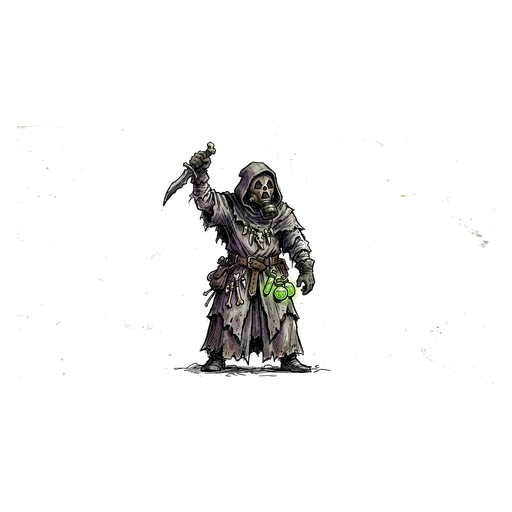
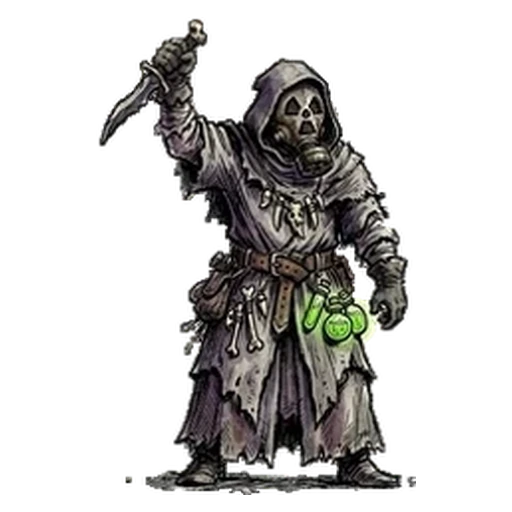
Враги: медведь, стиль карточек как у оружия, чёрная модалка, центрирование заголовков
1) Дорисован мутировавший медведь — все 20 врагов с иллюстрациями.

2) Фон панели арта врага — как у карточек оружия: оливковый градиент
   с внутренней тенью и окантовкой, но без радиальных кругов.

3) Модалка врага показывает настоящую иллюстрацию на чистом чёрном фоне
   (раньше был эмодзи). У оружия модалка не изменилась.

4) Заголовки всех разделов выровнены по центру; в «Арсенале» тумблер
   стиля вынесен в absolute справа, чтобы не сдвигать заголовок.

5) Карточка врага = карточка оружия по размеру: сетка 320px, рамка и
   тени как у weapon-card, текст в .ec-body.

Попутно: чистка альфы иллюстраций — на чёрном фоне были видны крошки
бумаги и обрывки контуров; у скорпиона, снайпера и дрона сохранена
бумажная подложка страницы.

Changed region(s): [[0.1875, 0.0312, 0.8125, 0.9688], [0.9375, 0.4688, 0.9688, 0.5], [0.9062, 0.4375, 0.9375, 0.4688]]

diff --git a/index.html b/index.html
@@ -356,24 +356,66 @@
         }
 
         /* Иллюстрации врагов: тушь + акварель на бумаге (Enemies/<ключ>.webp) */
+        /* Карточка врага по размеру карточки оружия */
+        #enemyGrid {
+            grid-template-columns: repeat(auto-fill, minmax(320px, 1fr));
+            gap: 18px;
+        }
+
         #enemyGrid .card {
             display: flex;
             flex-direction: column;
+            padding: 0;
+            text-align: left;
+            background: #1b1a16;
+            border: 4px solid #0d0c0a;
+            box-shadow: inset 0 0 0 2px #5d5a45, inset 0 0 0 4px #2a2822, 0 4px 0 #000;
+            overflow: hidden;
         }
 
+        #enemyGrid .card:hover {
+            border-color: #0d0c0a;
+            transform: translateY(-5px);
+            box-shadow: inset 0 0 0 2px #5d5a45, inset 0 0 0 4px #2a2822, 0 9px 0 #000;
+        }
+
+        /* Текстовый блок карточки врага */
+        #enemyGrid .ec-body {
+            padding: 12px 16px 16px;
+            display: flex;
+            flex-direction: column;
+            gap: 8px;
+            flex: 1;
+        }
+
+        #enemyGrid .card h3 {
+            font-size: 12px;
+            margin: 0;
+            color: var(--accent-red);
+            line-height: 1.6;
+        }
+
+        #enemyGrid .card p {
+            font-size: 18px;
+            line-height: 1.3;
+            color: #b9b4a4;
+        }
+
+        #enemyGrid .stats {
+            margin-top: auto;
+        }
+
+        /* Панель арта врага — та же оливковая, что у оружия, но без кругов */
         #enemyGrid .pixel-img-wrapper {
             width: 100%;
-            height: auto;
-            aspect-ratio: 1 / 1;
-            max-height: 210px;
-            margin-bottom: 14px;
-            background: #efe8d8;
-            background-image:
-                radial-gradient(ellipse at 30% 20%, rgba(255,255,255,0.55), transparent 60%),
-                radial-gradient(ellipse at 75% 85%, rgba(120,100,70,0.16), transparent 55%);
-            border: 2px solid #3b3630;
-            box-shadow: inset 0 0 22px rgba(90, 74, 50, 0.35);
+            height: 190px;
+            margin: 6px 6px 0;
+            padding: 0;
+            background: linear-gradient(#38362b, #2a2821);
+            border: 2px solid #0a0908;
+            box-shadow: inset 0 0 22px rgba(0, 0, 0, 0.85), inset 0 0 0 1px #6b6750;
             overflow: hidden;
+            position: relative;
         }
 
         #enemyGrid .enemy-art {
@@ -381,7 +423,8 @@
             height: 100%;
             object-fit: contain;
             display: block;
-            filter: sepia(0.06) saturate(1.02);
+            padding: 6px;
+            filter: drop-shadow(0 4px 5px rgba(0, 0, 0, 0.85));
         }
 
         .card h3 {
@@ -499,6 +542,37 @@
             flex-wrap: wrap;
             gap: 14px;
             margin-bottom: 20px;
+        }
+
+        /* Заголовки разделов — по центру страницы.
+           В «Арсенале» тумблер остаётся справа, не сдвигая заголовок. */
+        .section > h2 {
+            text-align: center;
+            color: var(--accent-red);
+            margin-bottom: 20px;
+        }
+
+        .section-head {
+            position: relative;
+            justify-content: center;
+        }
+
+        .section-head h2 {
+            text-align: center;
+        }
+
+        .section-head .style-toggle {
+            position: absolute;
+            right: 0;
+            top: 50%;
+            transform: translateY(-50%);
+        }
+
+        @media (max-width: 760px) {
+            .section-head .style-toggle {
+                position: static;
+                transform: none;
+            }
         }
 
         .section-head h2 {
@@ -903,6 +977,36 @@
             font-size: 120px;
         }
 
+        /* Модалка врага: чистая чёрная панель с иллюстрацией */
+        .modal-content .pixel-img-wrapper.enemy-modal-art {
+            width: 100%;
+            max-width: 420px;
+            height: auto;
+            aspect-ratio: 1 / 1;
+            margin: 0 auto 18px;
+            background: #000;
+            border: 2px solid #2a2a2a;
+            box-shadow: none;
+            padding: 0;
+        }
+
+        .modal-content .pixel-img-wrapper.enemy-modal-art .pixel-img {
+            width: 100%;
+            height: 100%;
+            margin: 0;
+            display: block;
+            filter: none;
+            image-rendering: auto;
+        }
+
+        .modal-content .pixel-img-wrapper.enemy-modal-art img {
+            width: 100%;
+            height: 100%;
+            object-fit: contain;
+            display: block;
+            filter: drop-shadow(0 0 14px rgba(255, 255, 255, 0.10));
+        }
+
         .modal-content h2 {
             color: var(--accent-red);
             margin-bottom: 20px;
@@ -1285,9 +1389,11 @@
                     <div class="pixel-img-wrapper">
                         ${artHTML}
                     </div>
-                    <h3>${item.name}</h3>
-                    <p>${item.desc}</p>
-                    ${statsHTML}
+                    <div class="ec-body">
+                        <h3>${item.name}</h3>
+                        <p>${item.desc}</p>
+                        ${statsHTML}
+                    </div>
                 `;
                 container.appendChild(card);
             });
@@ -1340,9 +1446,22 @@
         function openModal(item, type) {
             const modal = document.getElementById('modal');
             const modalImg = document.getElementById('modalImg');
-            modalImg.classList.toggle('has-img', !!item.sprite);
+            const wrapper = modalImg.parentElement;
+
+            // Враги: настоящая иллюстрация на чистом чёрном фоне
+            const isEnemyArt = type !== 'weapon' && !!item.art;
+            wrapper.classList.toggle('enemy-modal-art', isEnemyArt);
+
+            modalImg.classList.toggle('has-img', !!item.sprite || isEnemyArt);
             modalImg.classList.toggle('pixel-mode', !!item.sprite && weaponStyle === 'pixel');
-            modalImg.innerHTML = item.sprite ? weaponImg(item.sprite, item.emoji) : item.emoji;
+
+            if (isEnemyArt) {
+                modalImg.innerHTML =
+                    `<img src="Enemies/${item.art}.webp" alt="" draggable="false"
+                          onerror="this.outerHTML='${item.emoji}'">`;
+            } else {
+                modalImg.innerHTML = item.sprite ? weaponImg(item.sprite, item.emoji) : item.emoji;
+            }
             document.getElementById('modalTitle').textContent = item.name;
             document.getElementById('modalDesc').textContent = item.desc;
             
